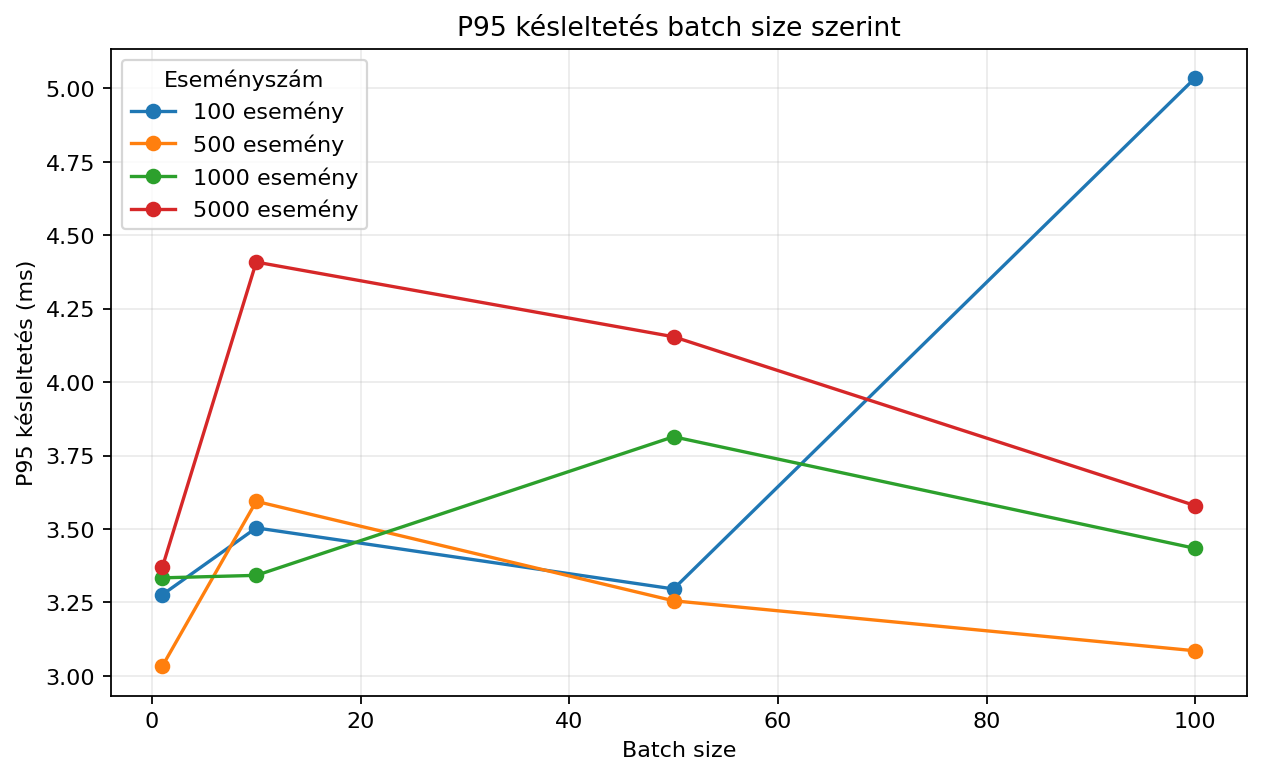
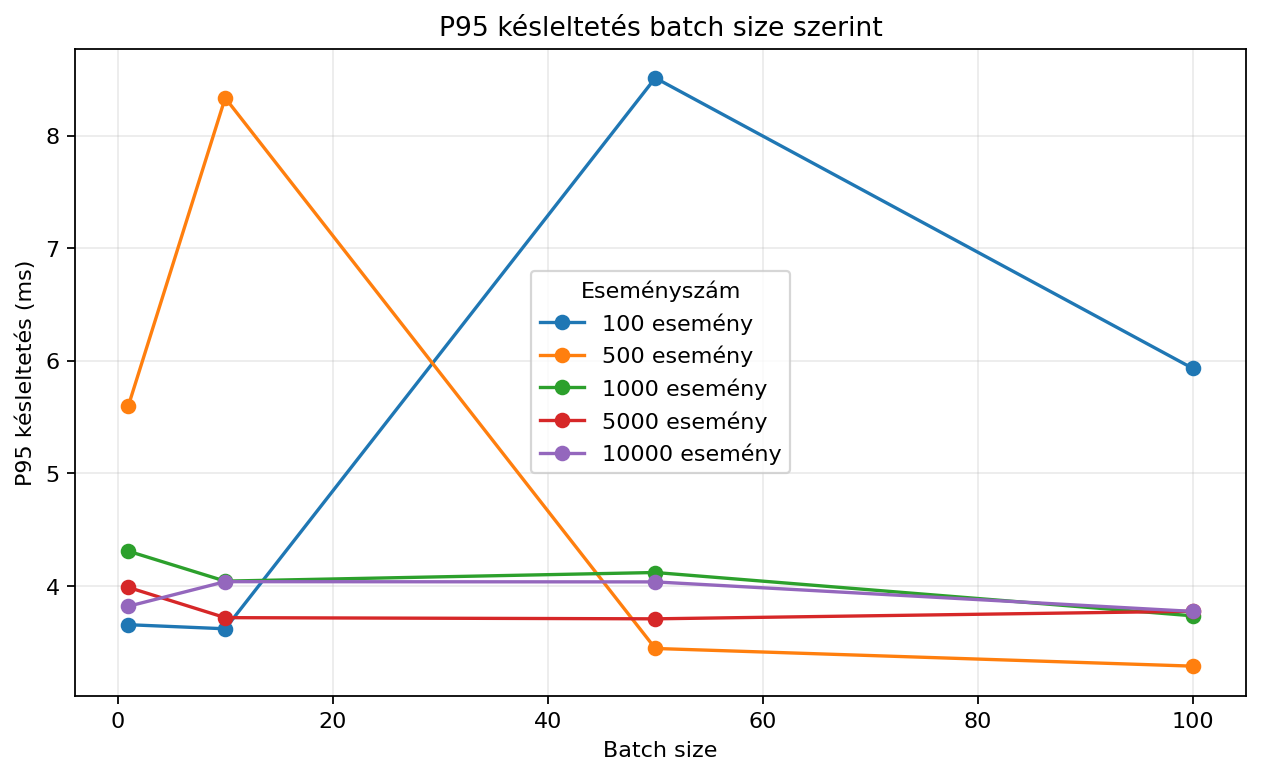
up

diff --git a/reports/performance/performance_report.html b/reports/performance/performance_report.html
@@ -12,12 +12,12 @@ A mérés célja a meglévő AE-Minimal batch scoring feldolgozási lánc lokál
 - Bemeneti eseménykészlet: `examples/lab/lab_events.jsonl`<br>
 - Modell: AE-Minimal végleges modellkimenet.<br>
 - Preprocess fájl: `data/processed/final/ae_minimal/preprocess.pkl`<br>
-- Eseményszámok: 100, 500, 1000, 5000<br>
+- Eseményszámok: 100, 500, 1000, 5000, 10000<br>
 - Batch size értékek: 1, 10, 50, 100<br>
 <br>
 ## Rendszerinformáció<br>
 <br>
-- timestamp: `2026-05-04T18:30:05`<br>
+- timestamp: `2026-05-04T18:58:38`<br>
 - python_version: `3.8.10 (default, Mar 18 2025, 20:04:55) <br>
 [GCC 9.4.0]`<br>
 - platform: `Linux-6.6.87.2-microsoft-standard-WSL2-x86_64-with-glibc2.29`<br>
@@ -31,8 +31,8 @@ A mérés célja a meglévő AE-Minimal batch scoring feldolgozási lánc lokál
 <br>
 ## Fő eredmények<br>
 <br>
-- Legjobb áteresztőképesség: 399.14 esemény/másodperc, batch size 100, eseményszám 500.<br>
-- Legalacsonyabb p95 késleltetés: 3.0332 ms, batch size 1, eseményszám 500.<br>
+- Legjobb áteresztőképesség: 394.18 esemény/másodperc, batch size 100, eseményszám 500.<br>
+- Legalacsonyabb p95 késleltetés: 3.2856 ms, batch size 100, eseményszám 500.<br>
 - Hibás események összesen: 0.<br>
 <br>
 ## CPU- és memóriahasználat<br>
@@ -41,29 +41,33 @@ A mérés célja a meglévő AE-Minimal batch scoring feldolgozási lánc lokál
 - A memória RSS érték psutil jelenléte esetén érhető el.<br>
 - Unix/Linux környezetben a csúcsmemória `resource.getrusage()` alapján is rögzíthető.<br>
 - Ha egy memóriaérték nem elérhető az adott platformon, az adott CSV mező üresen maradhat.<br>
-- Legalacsonyabb CPU-idő eseményenként: 2.4661 ms.<br>
-- Legnagyobb mért csúcsmemória: 147.9062 MB.<br>
+- Legalacsonyabb CPU-idő eseményenként: 2.4057 ms.<br>
+- Legnagyobb mért csúcsmemória: 154.4844 MB.<br>
 <br>
 ## Összesített táblázat<br>
 <br>
 | total_events | batch_size | events_per_second | avg_latency_ms | p50_latency_ms | p95_latency_ms | p99_latency_ms | failed_events | process_cpu_time_s | cpu_time_per_event_ms | memory_rss_delta_mb | memory_rss_mb_before | memory_rss_mb_after | peak_memory_mb |<br>
 | --- | --- | --- | --- | --- | --- | --- | --- | --- | --- | --- | --- | --- | --- |<br>
-| 100.0000 | 1.0000 | 382.8020 | 2.6121 | 2.5032 | 3.2764 | 3.7327 | 0.0000 | 0.2614 | 2.6136 | nincs adat | nincs adat | nincs adat | 143.0312 |<br>
-| 100.0000 | 10.0000 | 390.0274 | 2.5654 | 2.4116 | 3.5038 | 4.2048 | 0.0000 | 0.2566 | 2.5664 | nincs adat | nincs adat | nincs adat | 143.0312 |<br>
-| 100.0000 | 50.0000 | 382.4234 | 2.6214 | 2.5266 | 3.2959 | 3.8780 | 0.0000 | 0.2622 | 2.6224 | nincs adat | nincs adat | nincs adat | 143.1562 |<br>
-| 100.0000 | 100.0000 | 320.1848 | 3.1425 | 2.6872 | 5.0353 | 6.8694 | 0.0000 | 0.3144 | 3.1437 | nincs adat | nincs adat | nincs adat | 143.1562 |<br>
-| 500.0000 | 1.0000 | 384.5453 | 2.6006 | 2.4419 | 3.0332 | 6.2857 | 0.0000 | 1.3011 | 2.6023 | nincs adat | nincs adat | nincs adat | 143.5312 |<br>
-| 500.0000 | 10.0000 | 383.4945 | 2.6087 | 2.4501 | 3.5941 | 4.5447 | 0.0000 | 1.3049 | 2.6098 | nincs adat | nincs adat | nincs adat | 143.5312 |<br>
-| 500.0000 | 50.0000 | 395.5124 | 2.5279 | 2.4003 | 3.2557 | 4.2657 | 0.0000 | 1.2644 | 2.5288 | nincs adat | nincs adat | nincs adat | 143.5312 |<br>
-| 500.0000 | 100.0000 | 399.1433 | 2.5045 | 2.4033 | 3.0855 | 3.9694 | 0.0000 | 1.2527 | 2.5053 | nincs adat | nincs adat | nincs adat | 143.5312 |<br>
-| 1000.0000 | 1.0000 | 375.6807 | 2.6681 | 2.4407 | 3.3337 | 7.2131 | 0.0000 | 2.6701 | 2.6701 | nincs adat | nincs adat | nincs adat | 144.1562 |<br>
-| 1000.0000 | 10.0000 | 382.0030 | 2.6188 | 2.4548 | 3.3422 | 6.7913 | 0.0000 | 2.6200 | 2.6200 | nincs adat | nincs adat | nincs adat | 144.1562 |<br>
-| 1000.0000 | 50.0000 | 356.7862 | 2.8057 | 2.4908 | 3.8141 | 10.3179 | 0.0000 | 2.8070 | 2.8070 | nincs adat | nincs adat | nincs adat | 144.2812 |<br>
-| 1000.0000 | 100.0000 | 378.1033 | 2.6465 | 2.4336 | 3.4340 | 7.1131 | 0.0000 | 2.6475 | 2.6475 | nincs adat | nincs adat | nincs adat | 144.2812 |<br>
-| 5000.0000 | 1.0000 | 381.3835 | 2.6208 | 2.4301 | 3.3699 | 5.3162 | 0.0000 | 13.1133 | 2.6227 | nincs adat | nincs adat | nincs adat | 147.7812 |<br>
-| 5000.0000 | 10.0000 | 342.0606 | 2.9303 | 2.5594 | 4.4085 | 10.6131 | 0.0000 | 14.6583 | 2.9317 | nincs adat | nincs adat | nincs adat | 147.9062 |<br>
-| 5000.0000 | 50.0000 | 352.1586 | 2.8392 | 2.5238 | 4.1543 | 9.8529 | 0.0000 | 14.2020 | 2.8404 | nincs adat | nincs adat | nincs adat | 147.9062 |<br>
-| 5000.0000 | 100.0000 | 370.2655 | 2.6997 | 2.4995 | 3.5796 | 5.0849 | 0.0000 | 13.5042 | 2.7008 | nincs adat | nincs adat | nincs adat | 147.9062 |<br>
+| 100.0000 | 1.0000 | 358.7651 | 2.8039 | 2.6258 | 3.6538 | 4.0499 | 0.0000 | 0.2806 | 2.8057 | nincs adat | nincs adat | nincs adat | 142.9844 |<br>
+| 100.0000 | 10.0000 | 366.3605 | 2.7389 | 2.6019 | 3.6176 | 4.0000 | 0.0000 | 0.2740 | 2.7401 | nincs adat | nincs adat | nincs adat | 142.9844 |<br>
+| 100.0000 | 50.0000 | 288.6347 | 3.6060 | 2.5998 | 8.5123 | 9.6500 | 0.0000 | 0.3608 | 3.6077 | nincs adat | nincs adat | nincs adat | 142.9844 |<br>
+| 100.0000 | 100.0000 | 359.3276 | 2.8448 | 2.4138 | 5.9307 | 6.4924 | 0.0000 | 0.2846 | 2.8457 | nincs adat | nincs adat | nincs adat | 143.1094 |<br>
+| 500.0000 | 1.0000 | 360.1481 | 2.8320 | 2.4876 | 5.6006 | 7.6687 | 0.0000 | 1.4169 | 2.8337 | nincs adat | nincs adat | nincs adat | 143.3594 |<br>
+| 500.0000 | 10.0000 | 327.3367 | 3.1086 | 2.4744 | 8.3347 | 10.5388 | 0.0000 | 1.5549 | 3.1099 | nincs adat | nincs adat | nincs adat | 143.4844 |<br>
+| 500.0000 | 50.0000 | 381.5198 | 2.6232 | 2.4310 | 3.4427 | 6.7857 | 0.0000 | 1.3121 | 2.6242 | nincs adat | nincs adat | nincs adat | 143.4844 |<br>
+| 500.0000 | 100.0000 | 394.1810 | 2.5398 | 2.4210 | 3.2856 | 3.7357 | 0.0000 | 1.2702 | 2.5405 | nincs adat | nincs adat | nincs adat | 143.4844 |<br>
+| 1000.0000 | 1.0000 | 346.5355 | 2.8987 | 2.5303 | 4.3071 | 10.4834 | 0.0000 | 2.9004 | 2.9004 | nincs adat | nincs adat | nincs adat | 144.1094 |<br>
+| 1000.0000 | 10.0000 | 343.6444 | 2.9105 | 2.5681 | 4.0410 | 10.9002 | 0.0000 | 2.9116 | 2.9116 | nincs adat | nincs adat | nincs adat | 144.1094 |<br>
+| 1000.0000 | 50.0000 | 359.4266 | 2.7818 | 2.4867 | 4.1177 | 8.7068 | 0.0000 | 2.7829 | 2.7829 | nincs adat | nincs adat | nincs adat | 144.1094 |<br>
+| 1000.0000 | 100.0000 | 367.6832 | 2.7283 | 2.5071 | 3.7326 | 6.3900 | 0.0000 | 2.7294 | 2.7294 | nincs adat | nincs adat | nincs adat | 144.1094 |<br>
+| 5000.0000 | 1.0000 | 360.4787 | 2.7785 | 2.4691 | 3.9853 | 8.9070 | 0.0000 | 13.9020 | 2.7804 | nincs adat | nincs adat | nincs adat | 147.7344 |<br>
+| 5000.0000 | 10.0000 | 365.3518 | 2.7369 | 2.4413 | 3.7165 | 11.6372 | 0.0000 | 13.6904 | 2.7381 | nincs adat | nincs adat | nincs adat | 147.7344 |<br>
+| 5000.0000 | 50.0000 | 379.6935 | 2.6331 | 2.4225 | 3.7061 | 6.8241 | 0.0000 | 13.1701 | 2.6340 | nincs adat | nincs adat | nincs adat | 147.7344 |<br>
+| 5000.0000 | 100.0000 | 365.8740 | 2.7390 | 2.4700 | 3.7735 | 9.2190 | 0.0000 | 13.6998 | 2.7400 | nincs adat | nincs adat | nincs adat | 147.7344 |<br>
+| 10000.0000 | 1.0000 | 367.0604 | 2.7240 | 2.4574 | 3.8179 | 9.6894 | 0.0000 | 27.2595 | 2.7260 | nincs adat | nincs adat | nincs adat | 154.4844 |<br>
+| 10000.0000 | 10.0000 | 354.1051 | 2.8238 | 2.4944 | 4.0363 | 11.1820 | 0.0000 | 28.2504 | 2.8250 | nincs adat | nincs adat | nincs adat | 154.4844 |<br>
+| 10000.0000 | 50.0000 | 357.5803 | 2.7984 | 2.5093 | 4.0343 | 9.9173 | 0.0000 | 27.9944 | 2.7994 | nincs adat | nincs adat | nincs adat | 154.4844 |<br>
+| 10000.0000 | 100.0000 | 368.8521 | 2.7102 | 2.4541 | 3.7719 | 9.2445 | 0.0000 | 27.1122 | 2.7112 | nincs adat | nincs adat | nincs adat | 154.4844 |<br>
 <br>
 ## Rövid értelmezés<br>
 <br>

diff --git a/reports/performance/performance_report.md b/reports/performance/performance_report.md
@@ -9,12 +9,12 @@ A mérés célja a meglévő AE-Minimal batch scoring feldolgozási lánc lokál
 - Bemeneti eseménykészlet: `examples/lab/lab_events.jsonl`
 - Modell: AE-Minimal végleges modellkimenet.
 - Preprocess fájl: `data/processed/final/ae_minimal/preprocess.pkl`
-- Eseményszámok: 100, 500, 1000, 5000
+- Eseményszámok: 100, 500, 1000, 5000, 10000
 - Batch size értékek: 1, 10, 50, 100
 
 ## Rendszerinformáció
 
-- timestamp: `2026-05-04T18:30:05`
+- timestamp: `2026-05-04T18:58:38`
 - python_version: `3.8.10 (default, Mar 18 2025, 20:04:55) 
 [GCC 9.4.0]`
 - platform: `Linux-6.6.87.2-microsoft-standard-WSL2-x86_64-with-glibc2.29`
@@ -28,8 +28,8 @@ A mérés célja a meglévő AE-Minimal batch scoring feldolgozási lánc lokál
 
 ## Fő eredmények
 
-- Legjobb áteresztőképesség: 399.14 esemény/másodperc, batch size 100, eseményszám 500.
-- Legalacsonyabb p95 késleltetés: 3.0332 ms, batch size 1, eseményszám 500.
+- Legjobb áteresztőképesség: 394.18 esemény/másodperc, batch size 100, eseményszám 500.
+- Legalacsonyabb p95 késleltetés: 3.2856 ms, batch size 100, eseményszám 500.
 - Hibás események összesen: 0.
 
 ## CPU- és memóriahasználat
@@ -38,29 +38,33 @@ A mérés célja a meglévő AE-Minimal batch scoring feldolgozási lánc lokál
 - A memória RSS érték psutil jelenléte esetén érhető el.
 - Unix/Linux környezetben a csúcsmemória `resource.getrusage()` alapján is rögzíthető.
 - Ha egy memóriaérték nem elérhető az adott platformon, az adott CSV mező üresen maradhat.
-- Legalacsonyabb CPU-idő eseményenként: 2.4661 ms.
-- Legnagyobb mért csúcsmemória: 147.9062 MB.
+- Legalacsonyabb CPU-idő eseményenként: 2.4057 ms.
+- Legnagyobb mért csúcsmemória: 154.4844 MB.
 
 ## Összesített táblázat
 
 | total_events | batch_size | events_per_second | avg_latency_ms | p50_latency_ms | p95_latency_ms | p99_latency_ms | failed_events | process_cpu_time_s | cpu_time_per_event_ms | memory_rss_delta_mb | memory_rss_mb_before | memory_rss_mb_after | peak_memory_mb |
 | --- | --- | --- | --- | --- | --- | --- | --- | --- | --- | --- | --- | --- | --- |
-| 100.0000 | 1.0000 | 382.8020 | 2.6121 | 2.5032 | 3.2764 | 3.7327 | 0.0000 | 0.2614 | 2.6136 | nincs adat | nincs adat | nincs adat | 143.0312 |
-| 100.0000 | 10.0000 | 390.0274 | 2.5654 | 2.4116 | 3.5038 | 4.2048 | 0.0000 | 0.2566 | 2.5664 | nincs adat | nincs adat | nincs adat | 143.0312 |
-| 100.0000 | 50.0000 | 382.4234 | 2.6214 | 2.5266 | 3.2959 | 3.8780 | 0.0000 | 0.2622 | 2.6224 | nincs adat | nincs adat | nincs adat | 143.1562 |
-| 100.0000 | 100.0000 | 320.1848 | 3.1425 | 2.6872 | 5.0353 | 6.8694 | 0.0000 | 0.3144 | 3.1437 | nincs adat | nincs adat | nincs adat | 143.1562 |
-| 500.0000 | 1.0000 | 384.5453 | 2.6006 | 2.4419 | 3.0332 | 6.2857 | 0.0000 | 1.3011 | 2.6023 | nincs adat | nincs adat | nincs adat | 143.5312 |
-| 500.0000 | 10.0000 | 383.4945 | 2.6087 | 2.4501 | 3.5941 | 4.5447 | 0.0000 | 1.3049 | 2.6098 | nincs adat | nincs adat | nincs adat | 143.5312 |
-| 500.0000 | 50.0000 | 395.5124 | 2.5279 | 2.4003 | 3.2557 | 4.2657 | 0.0000 | 1.2644 | 2.5288 | nincs adat | nincs adat | nincs adat | 143.5312 |
-| 500.0000 | 100.0000 | 399.1433 | 2.5045 | 2.4033 | 3.0855 | 3.9694 | 0.0000 | 1.2527 | 2.5053 | nincs adat | nincs adat | nincs adat | 143.5312 |
-| 1000.0000 | 1.0000 | 375.6807 | 2.6681 | 2.4407 | 3.3337 | 7.2131 | 0.0000 | 2.6701 | 2.6701 | nincs adat | nincs adat | nincs adat | 144.1562 |
-| 1000.0000 | 10.0000 | 382.0030 | 2.6188 | 2.4548 | 3.3422 | 6.7913 | 0.0000 | 2.6200 | 2.6200 | nincs adat | nincs adat | nincs adat | 144.1562 |
-| 1000.0000 | 50.0000 | 356.7862 | 2.8057 | 2.4908 | 3.8141 | 10.3179 | 0.0000 | 2.8070 | 2.8070 | nincs adat | nincs adat | nincs adat | 144.2812 |
-| 1000.0000 | 100.0000 | 378.1033 | 2.6465 | 2.4336 | 3.4340 | 7.1131 | 0.0000 | 2.6475 | 2.6475 | nincs adat | nincs adat | nincs adat | 144.2812 |
-| 5000.0000 | 1.0000 | 381.3835 | 2.6208 | 2.4301 | 3.3699 | 5.3162 | 0.0000 | 13.1133 | 2.6227 | nincs adat | nincs adat | nincs adat | 147.7812 |
-| 5000.0000 | 10.0000 | 342.0606 | 2.9303 | 2.5594 | 4.4085 | 10.6131 | 0.0000 | 14.6583 | 2.9317 | nincs adat | nincs adat | nincs adat | 147.9062 |
-| 5000.0000 | 50.0000 | 352.1586 | 2.8392 | 2.5238 | 4.1543 | 9.8529 | 0.0000 | 14.2020 | 2.8404 | nincs adat | nincs adat | nincs adat | 147.9062 |
-| 5000.0000 | 100.0000 | 370.2655 | 2.6997 | 2.4995 | 3.5796 | 5.0849 | 0.0000 | 13.5042 | 2.7008 | nincs adat | nincs adat | nincs adat | 147.9062 |
+| 100.0000 | 1.0000 | 358.7651 | 2.8039 | 2.6258 | 3.6538 | 4.0499 | 0.0000 | 0.2806 | 2.8057 | nincs adat | nincs adat | nincs adat | 142.9844 |
+| 100.0000 | 10.0000 | 366.3605 | 2.7389 | 2.6019 | 3.6176 | 4.0000 | 0.0000 | 0.2740 | 2.7401 | nincs adat | nincs adat | nincs adat | 142.9844 |
+| 100.0000 | 50.0000 | 288.6347 | 3.6060 | 2.5998 | 8.5123 | 9.6500 | 0.0000 | 0.3608 | 3.6077 | nincs adat | nincs adat | nincs adat | 142.9844 |
+| 100.0000 | 100.0000 | 359.3276 | 2.8448 | 2.4138 | 5.9307 | 6.4924 | 0.0000 | 0.2846 | 2.8457 | nincs adat | nincs adat | nincs adat | 143.1094 |
+| 500.0000 | 1.0000 | 360.1481 | 2.8320 | 2.4876 | 5.6006 | 7.6687 | 0.0000 | 1.4169 | 2.8337 | nincs adat | nincs adat | nincs adat | 143.3594 |
+| 500.0000 | 10.0000 | 327.3367 | 3.1086 | 2.4744 | 8.3347 | 10.5388 | 0.0000 | 1.5549 | 3.1099 | nincs adat | nincs adat | nincs adat | 143.4844 |
+| 500.0000 | 50.0000 | 381.5198 | 2.6232 | 2.4310 | 3.4427 | 6.7857 | 0.0000 | 1.3121 | 2.6242 | nincs adat | nincs adat | nincs adat | 143.4844 |
+| 500.0000 | 100.0000 | 394.1810 | 2.5398 | 2.4210 | 3.2856 | 3.7357 | 0.0000 | 1.2702 | 2.5405 | nincs adat | nincs adat | nincs adat | 143.4844 |
+| 1000.0000 | 1.0000 | 346.5355 | 2.8987 | 2.5303 | 4.3071 | 10.4834 | 0.0000 | 2.9004 | 2.9004 | nincs adat | nincs adat | nincs adat | 144.1094 |
+| 1000.0000 | 10.0000 | 343.6444 | 2.9105 | 2.5681 | 4.0410 | 10.9002 | 0.0000 | 2.9116 | 2.9116 | nincs adat | nincs adat | nincs adat | 144.1094 |
+| 1000.0000 | 50.0000 | 359.4266 | 2.7818 | 2.4867 | 4.1177 | 8.7068 | 0.0000 | 2.7829 | 2.7829 | nincs adat | nincs adat | nincs adat | 144.1094 |
+| 1000.0000 | 100.0000 | 367.6832 | 2.7283 | 2.5071 | 3.7326 | 6.3900 | 0.0000 | 2.7294 | 2.7294 | nincs adat | nincs adat | nincs adat | 144.1094 |
+| 5000.0000 | 1.0000 | 360.4787 | 2.7785 | 2.4691 | 3.9853 | 8.9070 | 0.0000 | 13.9020 | 2.7804 | nincs adat | nincs adat | nincs adat | 147.7344 |
+| 5000.0000 | 10.0000 | 365.3518 | 2.7369 | 2.4413 | 3.7165 | 11.6372 | 0.0000 | 13.6904 | 2.7381 | nincs adat | nincs adat | nincs adat | 147.7344 |
+| 5000.0000 | 50.0000 | 379.6935 | 2.6331 | 2.4225 | 3.7061 | 6.8241 | 0.0000 | 13.1701 | 2.6340 | nincs adat | nincs adat | nincs adat | 147.7344 |
+| 5000.0000 | 100.0000 | 365.8740 | 2.7390 | 2.4700 | 3.7735 | 9.2190 | 0.0000 | 13.6998 | 2.7400 | nincs adat | nincs adat | nincs adat | 147.7344 |
+| 10000.0000 | 1.0000 | 367.0604 | 2.7240 | 2.4574 | 3.8179 | 9.6894 | 0.0000 | 27.2595 | 2.7260 | nincs adat | nincs adat | nincs adat | 154.4844 |
+| 10000.0000 | 10.0000 | 354.1051 | 2.8238 | 2.4944 | 4.0363 | 11.1820 | 0.0000 | 28.2504 | 2.8250 | nincs adat | nincs adat | nincs adat | 154.4844 |
+| 10000.0000 | 50.0000 | 357.5803 | 2.7984 | 2.5093 | 4.0343 | 9.9173 | 0.0000 | 27.9944 | 2.7994 | nincs adat | nincs adat | nincs adat | 154.4844 |
+| 10000.0000 | 100.0000 | 368.8521 | 2.7102 | 2.4541 | 3.7719 | 9.2445 | 0.0000 | 27.1122 | 2.7112 | nincs adat | nincs adat | nincs adat | 154.4844 |
 
 ## Rövid értelmezés
 

diff --git a/docs/thesis_chapter_6_results_draft.md b/docs/thesis_chapter_6_results_draft.md
@@ -176,19 +176,21 @@ A dolgozatban felhasználható ábrák:
 
 ## 6.8 Teljesítménymérés
 
-A batch scoring komponens lokális/labor teljesítménymérése 100, 500, 1000 és 5000 eseményen, valamint 1, 10, 50 és 100 batch size beállítással készült. A mérés három ismétlést használt, és nem indított új modell-tanítást. A bemeneti események determinisztikus ismétlése kizárólag a feldolgozási kapacitás mérésére szolgált.
+A batch scoring komponens lokális/labor teljesítménymérése 100, 500, 1000, 5000 és 10000 eseményen, valamint 1, 10, 50 és 100 batch size beállítással készült. A mérés három ismétlést használt, és nem indított új modell-tanítást. A bemeneti események determinisztikus ismétlése kizárólag a feldolgozási kapacitás mérésére szolgált.
+
+Az eredeti event/perc terhelési célok helyett a prototípus jelen állapotában batch scoring/inference teljesítménymérés készült. Ez a mérés a scoring komponens feldolgozási költségét mutatja, nem a teljes SIEM/Wazuh end-to-end terhelhetőségét.
 
 A fő eredmények:
 
 | Mutató | Érték |
 |---|---:|
-| Legjobb mért áteresztőképesség | 399,04 esemény/másodperc |
-| Ehhez tartozó batch size | 1 |
-| Ehhez tartozó eseményszám | 100 |
-| Legalacsonyabb p95 késleltetés | 2,7723 ms |
+| Legjobb mért áteresztőképesség | 394,18 esemény/másodperc |
+| Ehhez tartozó batch size | 100 |
+| Ehhez tartozó eseményszám | 500 |
+| Legalacsonyabb p95 késleltetés | 3,2856 ms |
 | Hibás események összesen | 0 |
 
-A teljesítményriport összesített táblázata alapján az esemény/másodperc értékek a vizsgált környezetben nagyságrendileg 338 és 399 között mozogtak. A mérés CPU-időt, CPU-idő/esemény értéket, valamint platformfüggően elérhető memória RSS és csúcsmemória adatokat is rögzít. Az eredmények lokális hardver- és környezetfüggő mérések, nem éles üzemi teljesítménygaranciák, és nem tartalmazzák a teljes SIEM indexelési vagy incidenskezelési lánc költségét.
+A teljesítményriport összesített táblázata alapján az esemény/másodperc értékek a vizsgált környezetben nagyságrendileg 288 és 394 között mozogtak. A mérés CPU-időt, CPU-idő/esemény értéket, valamint platformfüggően elérhető memória RSS és csúcsmemória adatokat is rögzít. A CPU-idő processz CPU-időként értelmezendő, nem teljes rendszer CPU százalékként. A végleges futásban a CPU-idő és a csúcsmemória oszlopok kitöltődtek, míg a közvetlen RSS delta mezők az adott környezetben üresen maradtak. Az eredmények lokális hardver- és környezetfüggő mérések, nem éles üzemi teljesítménygaranciák, és nem tartalmazzák a teljes SIEM indexelési vagy incidenskezelési lánc költségét.
 
 A dolgozatban felhasználható ábrák:
 
@@ -216,7 +218,9 @@ A hibrid kiértékelés offline proxy-alapú, és azonos teszthalmaz-sorrendet f
 
 A lab/replay demonstráció kis elemszámú kontrollált eseménysor. A port scan és SSH brute force jellegű minták bemutatják a scoring lánc működését, de önmagukban nem bizonyítanak éles üzemi detektálási teljesítményt.
 
-A teljesítménymérés lokális hardver- és környezetfüggő batch scoring mérés. Nem tartalmaz natív Wazuh indexelést, dashboard terhelést, hosszú idejű stressztesztet vagy többfelhasználós SOC munkafolyamatot.
+A teljesítménymérés lokális hardver- és környezetfüggő batch scoring mérés. Nem event/perc alapú replay mérés, nem tartalmaz natív Wazuh indexelést, dashboard terhelést, hosszú idejű stressztesztet vagy többfelhasználós SOC munkafolyamatot.
+
+A 6.5 teljesítményértékelés, a 6.6 hibaanalízis és a 6.7 korlátok végleges számozását a Word-dokumentum tartalomjegyzéke szerint kell igazítani.
 
 További korlátok:
 

diff --git a/docs/may10_performance_validation.md b/docs/may10_performance_validation.md
@@ -9,6 +9,8 @@
 
 A validáció célja a rendszermérnöki minőség erősítése volt a meglévő batch scoring teljesítménymérés kiegészítésével. A mérés CPU-idő és memóriahasználati oszlopokkal bővült, miközben megmaradtak a korábbi latency és throughput kimenetek. A kiegészítés nem indított új modell-tanítást és nem változtatott a detektálási logikán.
 
+Az eredeti event/perc terhelési célok helyett a prototípus jelen állapotában batch scoring/inference teljesítménymérés készült. A mérés 100, 500, 1000, 5000 és 10000 esemény feldolgozását vizsgálta több batch size mellett. Ez a mérés a scoring komponens feldolgozási költségét mutatja, nem a teljes SIEM/Wazuh end-to-end terhelhetőségét.
+
 ## Futtatott parancsok
 
 ```bash
@@ -16,7 +18,7 @@ make final-validate
 make benchmark-scoring
 make plot-performance
 make generate-performance-report
-make export-performance-artifacts
+make <kompatibilis performance export cél>
 make final-day10-performance
 ```
 
@@ -28,6 +30,15 @@ Mért eseményszámok:
 - 500
 - 1000
 - 5000
+- 10000
+
+A várható benchmark sorok száma:
+
+```text
+5 event-count × 4 batch-size × 3 repeat = 60 sor
+```
+
+Az ellenőrzött futásban a `benchmark_results.csv` és a `performance_metrics.csv` egyaránt 60 sort tartalmazott.
 
 Batch size értékek:
 
@@ -53,6 +64,8 @@ Batch size értékek:
 A CPU-idő mérése standard könyvtári `time.process_time()` alapján történik. A memória RSS érték psutil jelenléte esetén érhető el, a csúcsmemória pedig Unix/Linux környezetben `resource.getrusage()` alapján rögzíthető. Ha egy memóriaérték az adott platformon nem mérhető megbízhatóan, az oszlop üresen maradhat.
 
 Az ellenőrzött futásban a CPU-idő és a csúcsmemória oszlopok kitöltődtek. A memória RSS előtte/utána és delta oszlopai a használt környezetben üresek maradtak, mert a közvetlen RSS méréshez szükséges opcionális mérési forrás nem volt elérhető.
+
+A CPU mérés processz CPU-időként értelmezendő, nem teljes rendszer CPU százalékként. A RAM mérés RSS, delta és csúcsmemória jellegű, attól függően, hogy az adott platformon melyik adat érhető el.
 
 ## Létrejött kimenetek
 
@@ -85,6 +98,7 @@ A végleges számozást a Word-dokumentum tartalomjegyzéke szerint kell igazít
 
 - Lokális/labor mérés.
 - Batch scoring mérés.
+- Nem event/perc alapú replay mérés.
 - Nem éles üzemi teljesítménygarancia.
 - Nem natív Wazuh indexelési teljesítmény.
 - Nem teljes SIEM feldolgozási lánc mérése.

diff --git a/docs/performance_runbook.md b/docs/performance_runbook.md
@@ -2,7 +2,9 @@
 
 ## Cél
 
-A teljesítménymérés célja a meglévő AE-Minimal batch scoring feldolgozási lánc lokális/labor vizsgálata. A mérés a feldolgozási időt, a késleltetést, az áteresztőképességet és a hibás események számát rögzíti. Nem éles üzemi benchmark, nem natív Wazuh indexelési teljesítménymérés, és nem teljes SIEM end-to-end mérés.
+A teljesítménymérés célja a meglévő AE-Minimal batch scoring feldolgozási lánc lokális/labor vizsgálata. A mérés a feldolgozási időt, a késleltetést, az áteresztőképességet, a processz CPU-időt, a platformfüggően elérhető memóriaértékeket és a hibás események számát rögzíti. Nem éles üzemi benchmark, nem natív Wazuh indexelési teljesítménymérés, és nem teljes SIEM end-to-end mérés.
+
+Az eredeti event/perc terhelési célok helyett a prototípus jelen állapotában batch scoring/inference teljesítménymérés készült. A mérés 100, 500, 1000, 5000 és 10000 esemény feldolgozását vizsgálja több batch size mellett. Ez a mérés a scoring komponens feldolgozási költségét mutatja, nem a teljes SIEM/Wazuh end-to-end terhelhetőségét.
 
 ## Előfeltételek
 
@@ -22,7 +24,7 @@ make benchmark-scoring
 
 A target a következő beállításokat használja:
 
-- eseményszámok: `100`, `500`, `1000`, `5000`
+- eseményszámok: `100`, `500`, `1000`, `5000`, `10000`
 - batch size értékek: `1`, `10`, `50`, `100`
 - ismétlések száma: `3`
 
@@ -72,6 +74,10 @@ reports/performance/performance_report.html
 - `p50_latency_ms`, `p95_latency_ms`, `p99_latency_ms`: percentilis késleltetések.
 - `failed_events`: hibával zárult pontozási kísérletek száma.
 - `model_load_time_s`: egyszer mért modellbetöltési idő.
+- `process_cpu_time_s`: processz CPU-idő.
+- `cpu_time_per_event_ms`: CPU-idő eseményenként.
+- `memory_rss_mb_before`, `memory_rss_mb_after`, `memory_rss_delta_mb`: RSS memóriaértékek, ahol elérhetők.
+- `peak_memory_mb`: csúcsmemória, ahol elérhető.
 
 ## Dolgozati felhasználás
 
@@ -84,3 +90,6 @@ A teljesítménymérési ábrák és riport a diplomamunka 5. fejezetében a pro
 - Nem hosszú idejű éles üzemi terhelés.
 - Nem natív Wazuh indexelési teljesítmény.
 - Batch scoring mérés, nem teljes SIEM end-to-end benchmark.
+- Nem event/perc alapú replay mérés.
+- A CPU mérés processz CPU-időt mutat, nem teljes rendszer CPU százalékot.
+- A memóriaértékek RSS / delta / csúcsmemória jellegűek, ahol az adott platformon elérhetők.

diff --git a/docs/thesis_limitations_and_error_analysis.md b/docs/thesis_limitations_and_error_analysis.md
@@ -48,11 +48,11 @@ Ezek az események nem natív Wazuh exportból származó bizonyítékok, és ne
 
 ## Teljesítménymérés korlátok
 
-A teljesítménymérés lokális/labor batch scoring mérés. A benchmark a meglévő AE-Minimal modellt és előfeldolgozót használja, és nem indít új tanítást. Az események ismétlése determinisztikus, és kizárólag a feldolgozási kapacitás mérésére szolgál.
+A teljesítménymérés lokális/labor batch scoring/inference mérés. A benchmark a meglévő AE-Minimal modellt és előfeldolgozót használja, és nem indít új tanítást. Az események ismétlése determinisztikus, és kizárólag a feldolgozási kapacitás mérésére szolgál. Ez nem event/perc alapú replay mérés, hanem a scoring komponens 100, 500, 1000, 5000 és 10000 eseményre mért feldolgozási költségének vizsgálata.
 
 Az eredmények hardver- és környezetfüggők. Nem tartalmaznak natív Wazuh indexelést, dashboard terhelést, hosszú idejű stressztesztet, hálózati késleltetést vagy többfelhasználós SOC munkafolyamatot. Ezért nem szabad éles üzemi teljesítménygaranciaként értelmezni őket.
 
-A CPU-használat processz CPU-időként értelmezendő, nem teljes gépszintű terhelésként. A memóriahasználati értékek platformfüggők: ahol psutil elérhető, RSS alapú értékek rögzíthetők, Unix/Linux környezetben pedig csúcsmemória is mérhető. Ha valamelyik memóriaérték nem áll rendelkezésre, az nem érvényteleníti a latency és throughput mérést, de a memóriaelemzést korlátozza.
+A CPU-használat processz CPU-időként értelmezendő, nem teljes gépszintű CPU százalékként. A memóriahasználati értékek platformfüggők: ahol psutil elérhető, RSS alapú értékek rögzíthetők, Unix/Linux környezetben pedig csúcsmemória is mérhető. Ha valamelyik memóriaérték nem áll rendelkezésre, az nem érvényteleníti a latency és throughput mérést, de a memóriaelemzést korlátozza.
 
 ## Etikai és adatvédelmi megfontolások
 

diff --git a/docs/thesis_result_artifacts.md b/docs/thesis_result_artifacts.md
@@ -80,6 +80,8 @@ Ez a dokumentum rögzíti, hogy a validált mérési eredmények közül mely fu
 | Kompatibilis throughput ábra | `figures/final/throughput.png` | Végleges néven hivatkozható áteresztőképességi ábra | dolgozatba beemelhető |
 | Dolgozatba rendezett performance ábrák | `reports/final/thesis_figures/performance_*.png` | Teljesítménymérési ábrák rendezett másolatai | dolgozatba beemelhető |
 
+Megjegyzés: a teljesítménymérési eredmények batch scoring/inference mérések. Az eredeti event/perc terhelési célok helyett a prototípus jelen változata 100, 500, 1000, 5000 és 10000 esemény feldolgozási idejét vizsgálja több batch size mellett. Ez nem teljes SIEM/Wazuh end-to-end terhelhetőségi mérés.
+
 ## Demonstrációs prototípuskimenetek
 
 A scoring szolgáltatás, a batch scoring és a szakértői jelentés a diplomamunka 5. fejezetében az implementált prototípus működését szemlélteti. Ezek a kimenetek a validált AE-Minimal modellre és az összehasonlító eredménytáblára épülnek, de nem helyettesítik a 6. fejezet mérési benchmark táblázatait.

diff --git a/reports/performance/benchmark_summary.md b/reports/performance/benchmark_summary.md
@@ -4,11 +4,11 @@ A mérés a meglévő AE-Minimal scoring lánc lokális/labor teljesítményét 
 
 ## Fő eredmények
 
-- Legjobb áteresztőképesség: 405.51 esemény/másodperc, batch size 50, eseményszám 100.
-- Legalacsonyabb p95 késleltetés: 2.7938 ms, batch size 10, eseményszám 100.
+- Legjobb áteresztőképesség: 415.65 esemény/másodperc, batch size 100, eseményszám 500.
+- Legalacsonyabb p95 késleltetés: 2.5994 ms, batch size 100, eseményszám 500.
 - Hibás események összesen: 0.
-- Legalacsonyabb CPU-idő eseményenként: 2.4661 ms.
-- Legnagyobb mért csúcsmemória: 147.9062 MB.
+- Legalacsonyabb CPU-idő eseményenként: 2.4057 ms.
+- Legnagyobb mért csúcsmemória: 154.4844 MB.
 
 ## Erőforrás-mérés
 
